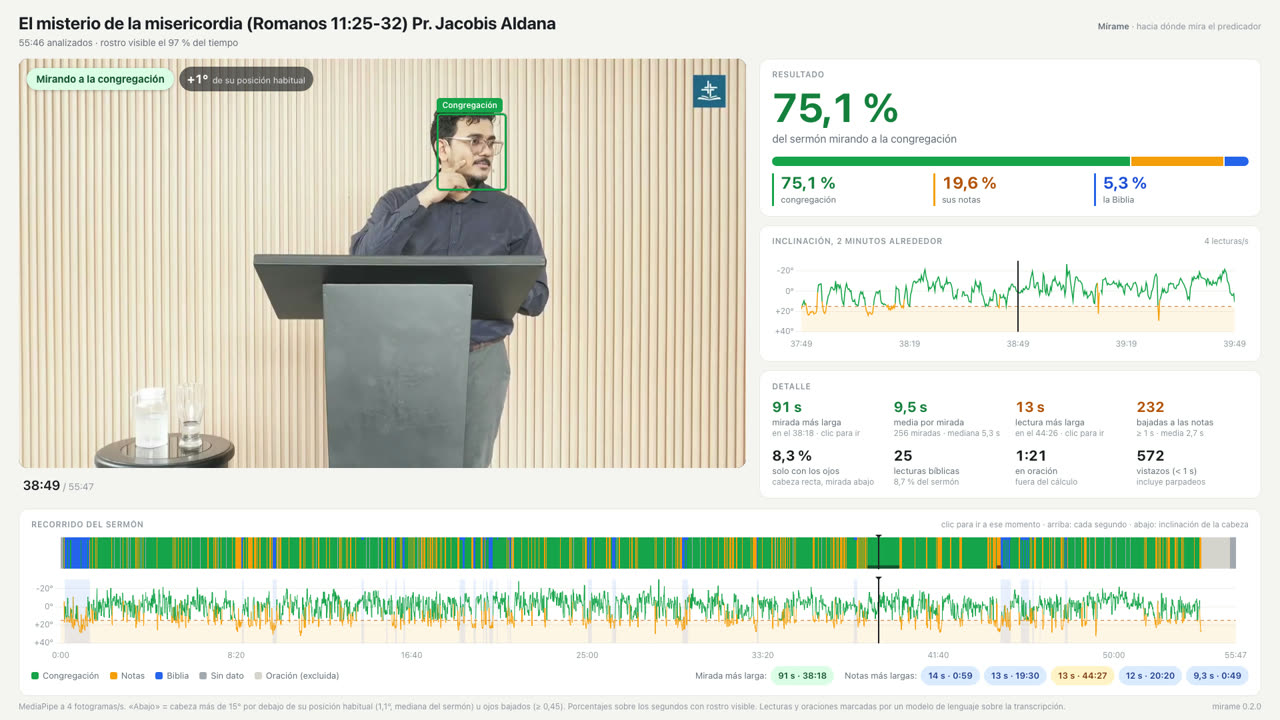
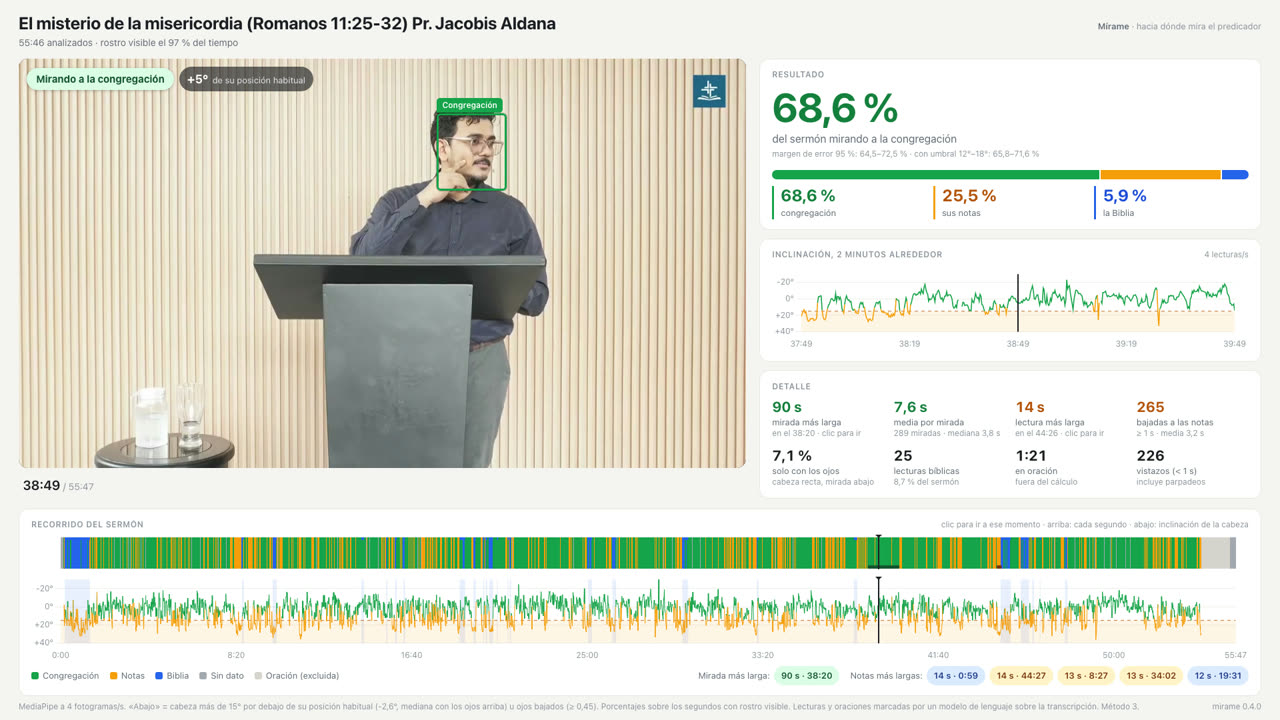
docs: capturas del README con el método 3

diff --git a/README.md b/README.md
@@ -3,7 +3,7 @@
 **¿Hacia dónde mira el predicador?** Mírame toma el video de un sermón y mide, segundo a segundo, cuánto tiempo el predicador mira a la congregación y cuánto baja la vista a sus notas. Corre en tu computadora, sin cuentas ni suscripciones.
 
 <p>
-  <img src="docs/img/mirando-notas.jpg" width="49%" alt="Reporte de Mírame: el predicador mira sus notas, con la cabeza inclinada 36 grados">
+  <img src="docs/img/mirando-notas.jpg" width="49%" alt="Reporte de Mírame: el predicador mira sus notas, con la cabeza inclinada">
   <img src="docs/img/mirando-congregacion.jpg" width="49%" alt="Reporte de Mírame: el predicador mira a la congregación">
 </p>
 
